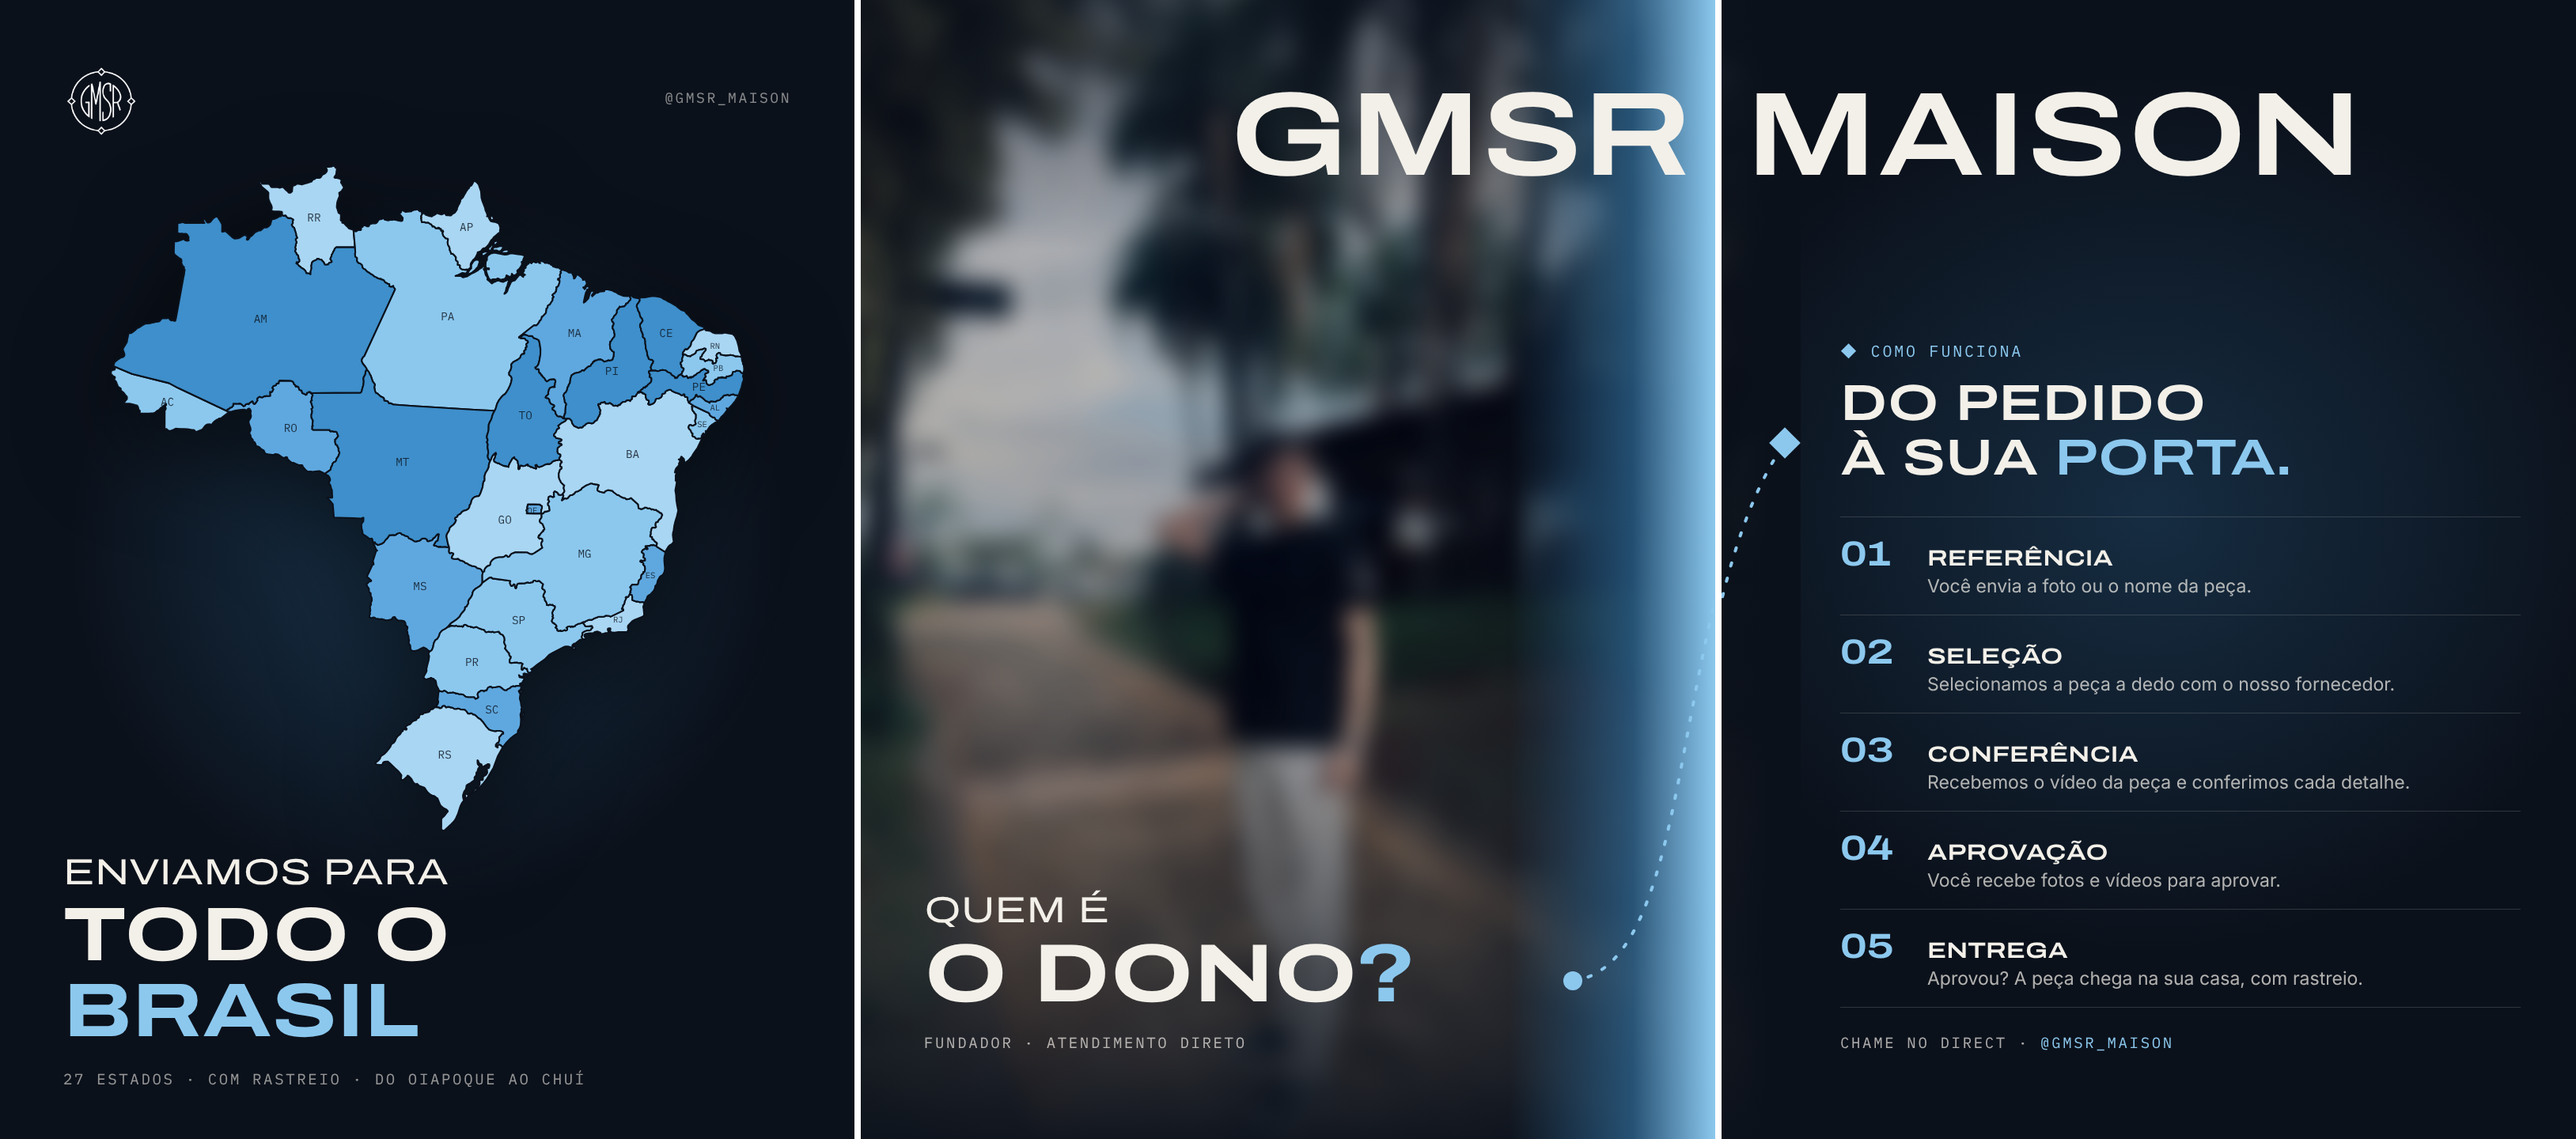
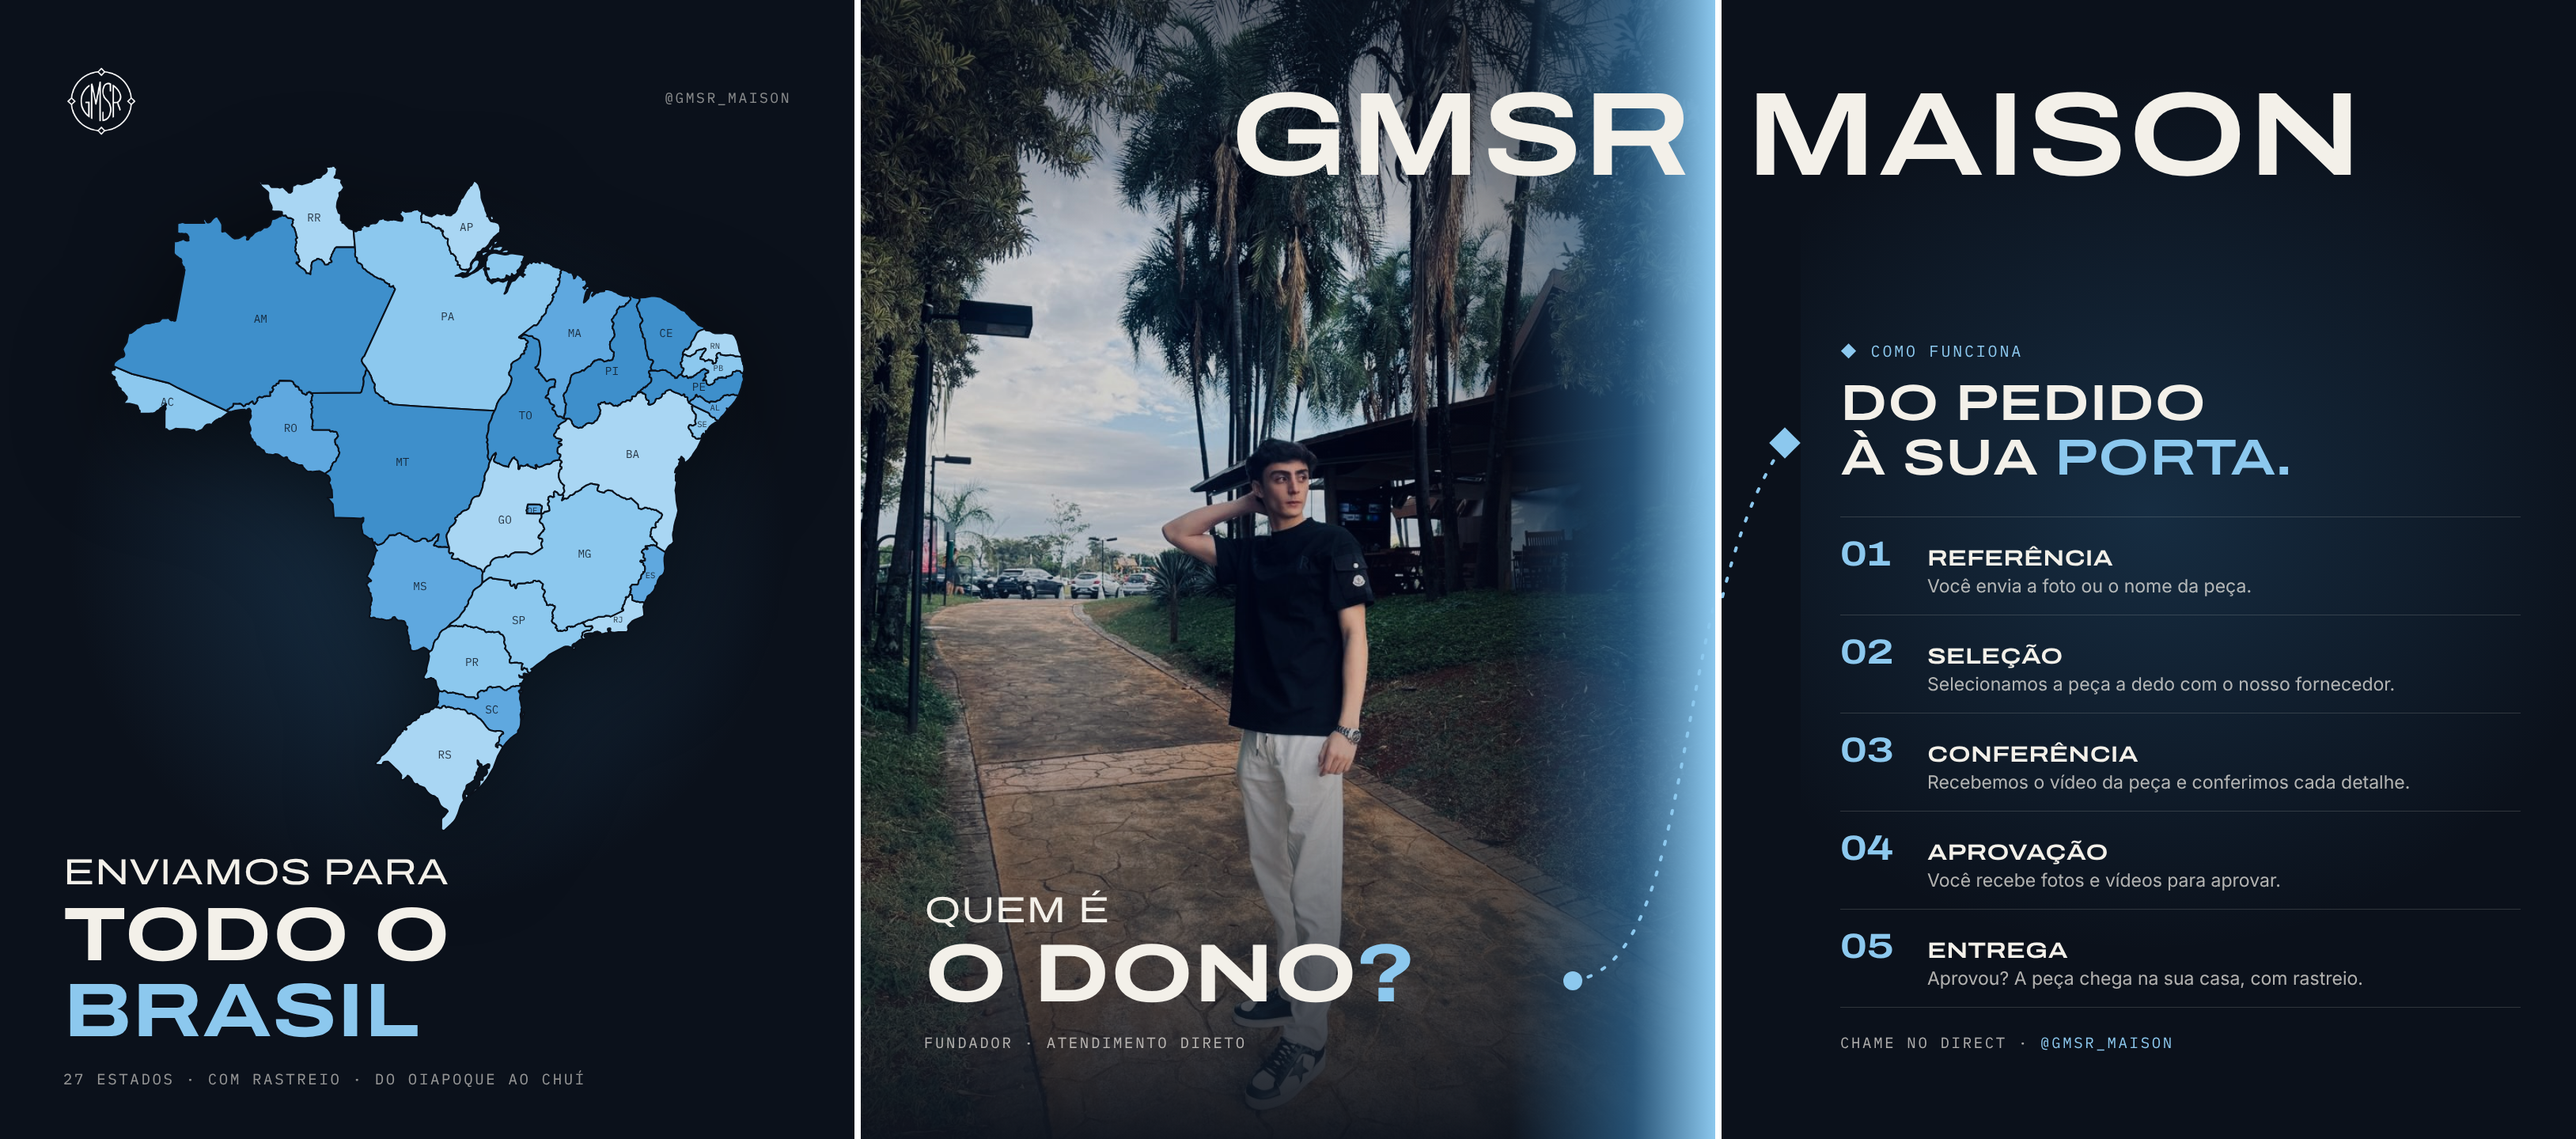
"Quem é o dono": foto sem blur no post do meio
Claude-Session: https://claude.ai/code/session_018Rxm36svjxPgU3W8TLCnbb

Changed region(s): [[0.3102, 0.0, 0.6204, 0.8125], [0.4653, 0.875, 0.4963, 0.9062]]

diff --git a/posts-grade/04-carrossel-dono/slides.html b/posts-grade/04-carrossel-dono/slides.html
@@ -117,7 +117,7 @@
   .pano .photo.dono:before{content:"";position:absolute;inset:0;z-index:1;background:linear-gradient(180deg,#1C4F86,#3E8FCB 55%,#163A63);mix-blend-mode:color}
   .pano .photo.dono:after{z-index:2;background:linear-gradient(90deg,transparent 45%,rgba(11,17,27,.85) 82%,#0B111B 100%),linear-gradient(180deg,rgba(11,17,27,.55),transparent 22%,transparent 58%,rgba(11,17,27,.95)) !important}
   .pano .ask2{z-index:3;-webkit-text-stroke:4px rgba(191,221,242,.7)}
-  .pano .photo.blur img{position:absolute;inset:0;width:1080px;height:100%;object-fit:cover;object-position:50% 40%;filter:blur(14px) brightness(.75) saturate(.9);transform:scale(1.08)}
+  .pano .photo.blur img{position:absolute;inset:0;width:1080px;height:100%;object-fit:cover;object-position:50% 40%;filter:brightness(.85);transform:none}
   .pano .photo.blur .ask{z-index:3;-webkit-text-stroke:4px rgba(191,221,242,.75)}
   .pano .photo.blur:after{z-index:2}
   .pano .edge3{position:absolute;top:0;bottom:0;left:820px;width:260px;z-index:2;background:linear-gradient(90deg,rgba(62,143,203,0),rgba(62,143,203,.5) 60%,#8CC8EE)}

diff --git a/posts-grade/02-grade-mapa-processo/slides.html b/posts-grade/02-grade-mapa-processo/slides.html
@@ -59,7 +59,7 @@
   .pano .photo.dono:before{content:"";position:absolute;inset:0;z-index:1;background:linear-gradient(180deg,#1C4F86,#3E8FCB 55%,#163A63);mix-blend-mode:color}
   .pano .photo.dono:after{z-index:2;background:linear-gradient(90deg,transparent 45%,rgba(11,17,27,.85) 82%,#0B111B 100%),linear-gradient(180deg,rgba(11,17,27,.55),transparent 22%,transparent 58%,rgba(11,17,27,.95)) !important}
   .pano .ask2{z-index:3;-webkit-text-stroke:4px rgba(191,221,242,.7)}
-  .pano .photo.blur img{position:absolute;inset:0;width:1080px;height:100%;object-fit:cover;object-position:50% 40%;filter:blur(14px) brightness(.75) saturate(.9);transform:scale(1.08)}
+  .pano .photo.blur img{position:absolute;inset:0;width:1080px;height:100%;object-fit:cover;object-position:50% 40%;filter:brightness(.85);transform:none}
   .pano .photo.blur .ask{z-index:3;-webkit-text-stroke:4px rgba(191,221,242,.75)}
   .pano .photo.blur:after{z-index:2}
   .pano .edge3{position:absolute;top:0;bottom:0;left:820px;width:260px;z-index:2;background:linear-gradient(90deg,rgba(62,143,203,0),rgba(62,143,203,.5) 60%,#8CC8EE)}

diff --git a/posts-grade/03-carrossel-processo/slides.html b/posts-grade/03-carrossel-processo/slides.html
@@ -96,7 +96,7 @@
   .pano .photo.dono:before{content:"";position:absolute;inset:0;z-index:1;background:linear-gradient(180deg,#1C4F86,#3E8FCB 55%,#163A63);mix-blend-mode:color}
   .pano .photo.dono:after{z-index:2;background:linear-gradient(90deg,transparent 45%,rgba(11,17,27,.85) 82%,#0B111B 100%),linear-gradient(180deg,rgba(11,17,27,.55),transparent 22%,transparent 58%,rgba(11,17,27,.95)) !important}
   .pano .ask2{z-index:3;-webkit-text-stroke:4px rgba(191,221,242,.7)}
-  .pano .photo.blur img{position:absolute;inset:0;width:1080px;height:100%;object-fit:cover;object-position:50% 40%;filter:blur(14px) brightness(.75) saturate(.9);transform:scale(1.08)}
+  .pano .photo.blur img{position:absolute;inset:0;width:1080px;height:100%;object-fit:cover;object-position:50% 40%;filter:brightness(.85);transform:none}
   .pano .photo.blur .ask{z-index:3;-webkit-text-stroke:4px rgba(191,221,242,.75)}
   .pano .photo.blur:after{z-index:2}
   .pano .edge3{position:absolute;top:0;bottom:0;left:820px;width:260px;z-index:2;background:linear-gradient(90deg,rgba(62,143,203,0),rgba(62,143,203,.5) 60%,#8CC8EE)}
